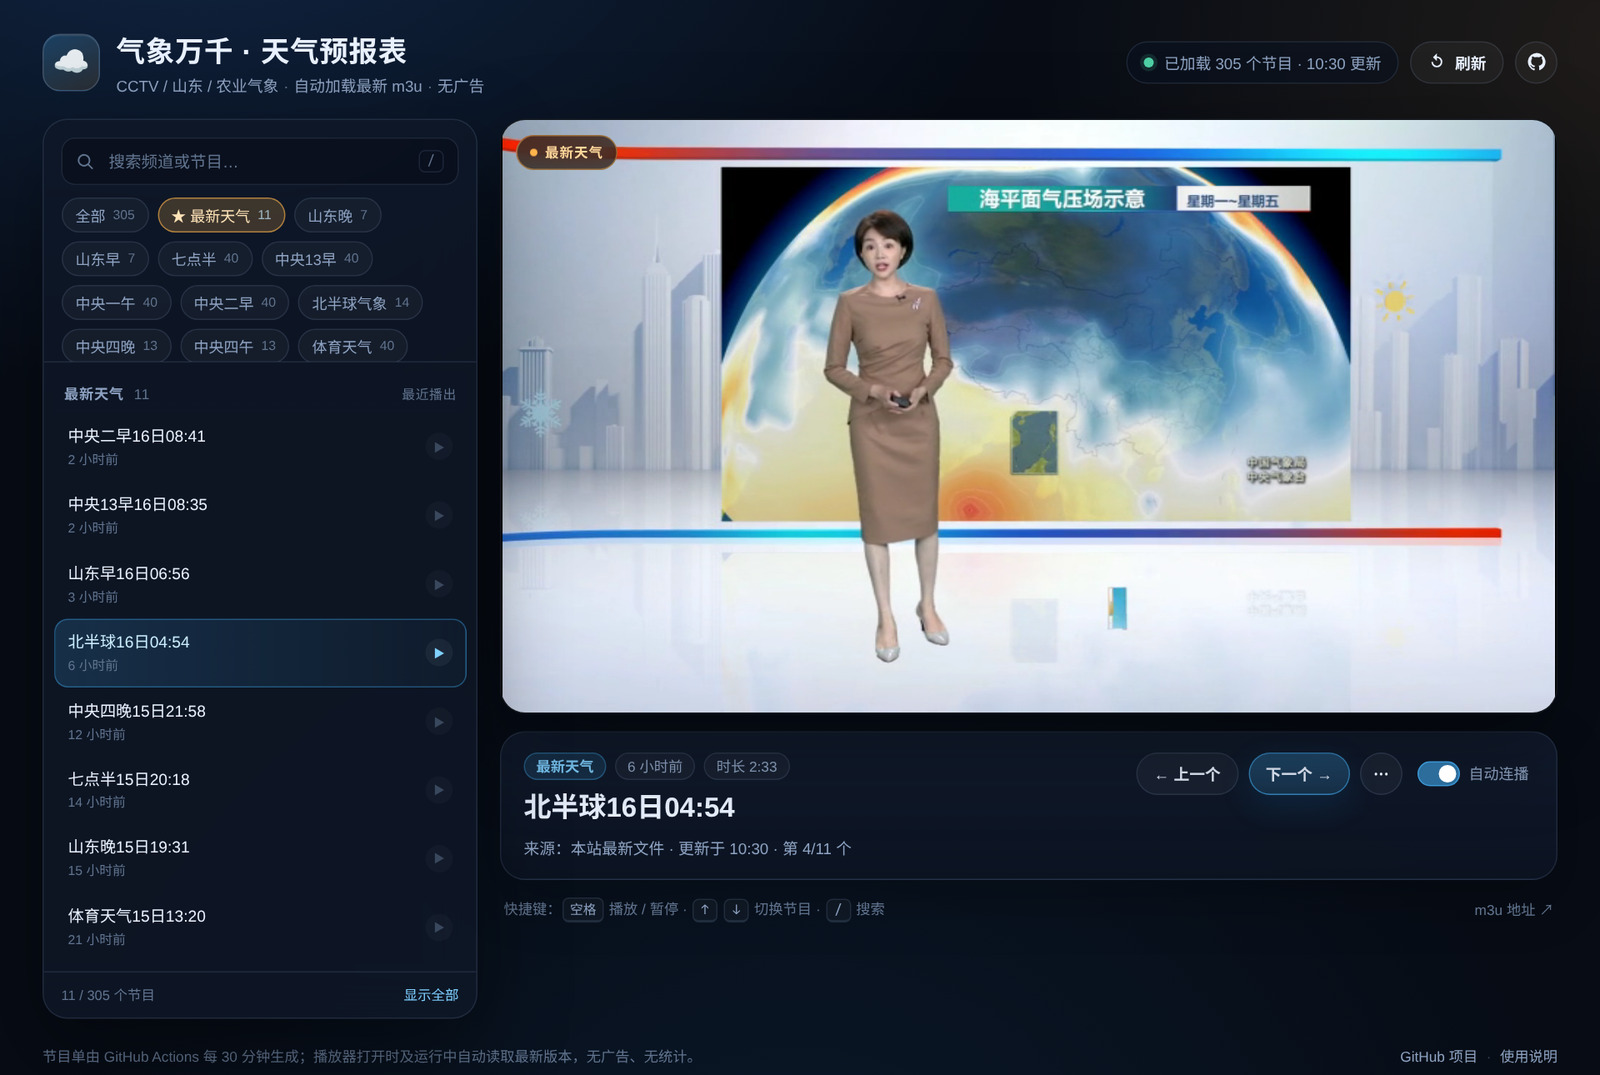
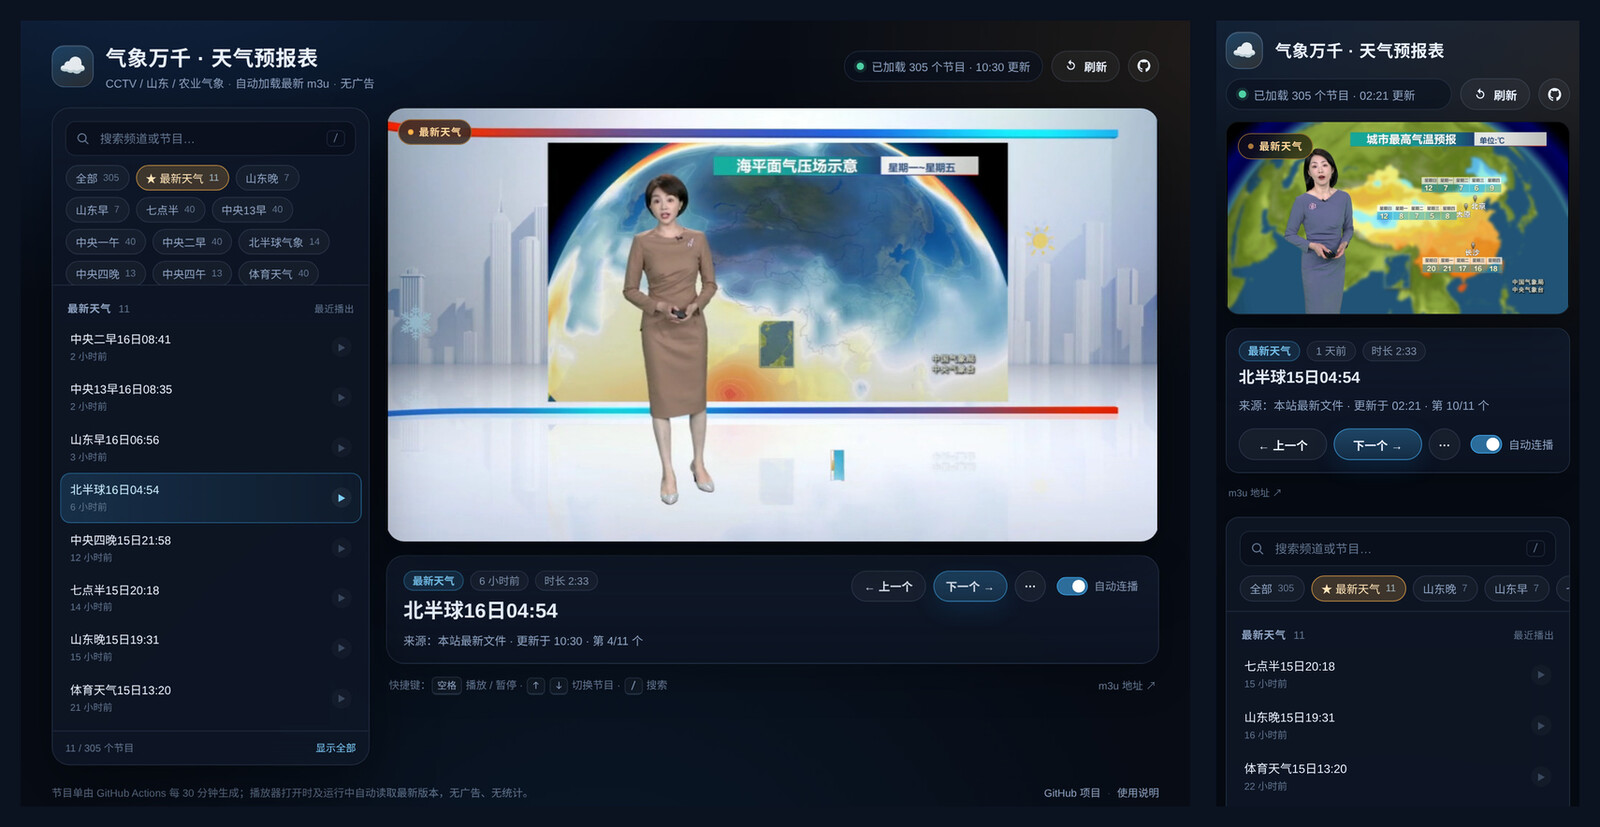
Show desktop and mobile demo screenshots side by side

diff --git a/README.md b/README.md
@@ -42,9 +42,7 @@ node app.js > tq.m3u
 
 [![在线演示](https://img.shields.io/badge/▶%20在线演示-打开天气播放器-2ea6ff?style=for-the-badge)](https://andrewgoal.github.io/cctv_weather_forecasting_m3u/)
 
-[![在线演示器截图：左侧为节目单，右侧播放最新的天气预报](demo.jpg)](https://andrewgoal.github.io/cctv_weather_forecasting_m3u/)
-
-[![手机端界面截图：播放器、当前节目信息和节目单](demo-mobile.jpg)](https://andrewgoal.github.io/cctv_weather_forecasting_m3u/)
+[![在线演示器截图：左侧为电脑端（节目单与播放器），右侧为手机端界面](demo.jpg)](https://andrewgoal.github.io/cctv_weather_forecasting_m3u/)
 
 - 打开页面即自动加载**最新** m3u，无需手动导入；GitHub Actions 每 30 分钟生成 m3u 并同步部署演示页
 - 打开页面即自动播放；浏览器限制「带声音自动播放」时，会先静音播放并提示，点击页面任意处即可开启声音
